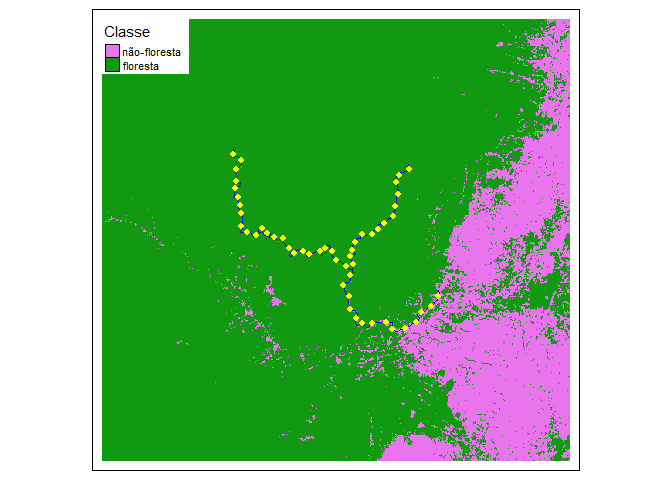
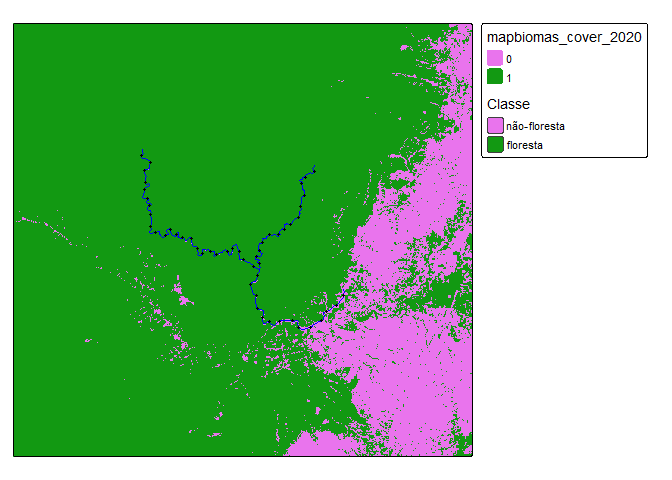
Update github workflows.

diff --git a/README.md b/README.md
@@ -9,6 +9,7 @@
 [![Codecov test
 coverage](https://codecov.io/gh/darrennorris/eprdados/branch/master/graph/badge.svg)](https://app.codecov.io/gh/darrennorris/eprdados?branch=master)
 [![pkgdown](https://github.com/darrennorris/eprdados/workflows/pkgdown/badge.svg)](https://github.com/darrennorris/eprdados/actions)
+[![R-CMD-check](https://github.com/darrennorris/eprdados/actions/workflows/R-CMD-check.yaml/badge.svg)](https://github.com/darrennorris/eprdados/actions/workflows/R-CMD-check.yaml)
 <!-- badges: end -->
 
 Conjuntos de dados para o ensino de Ecologia de Paisagens.
@@ -29,7 +30,7 @@ remotes::install_github("darrennorris/eprdados")
 
 ## Example
 
-<img src="man/figures/README-mapa-tematica-1.png" width="100%" />
+<img src="man/figures/README-mapa-tematica-1.png" alt="" width="100%" />
 
 ------------------------------------------------------------------------
 
